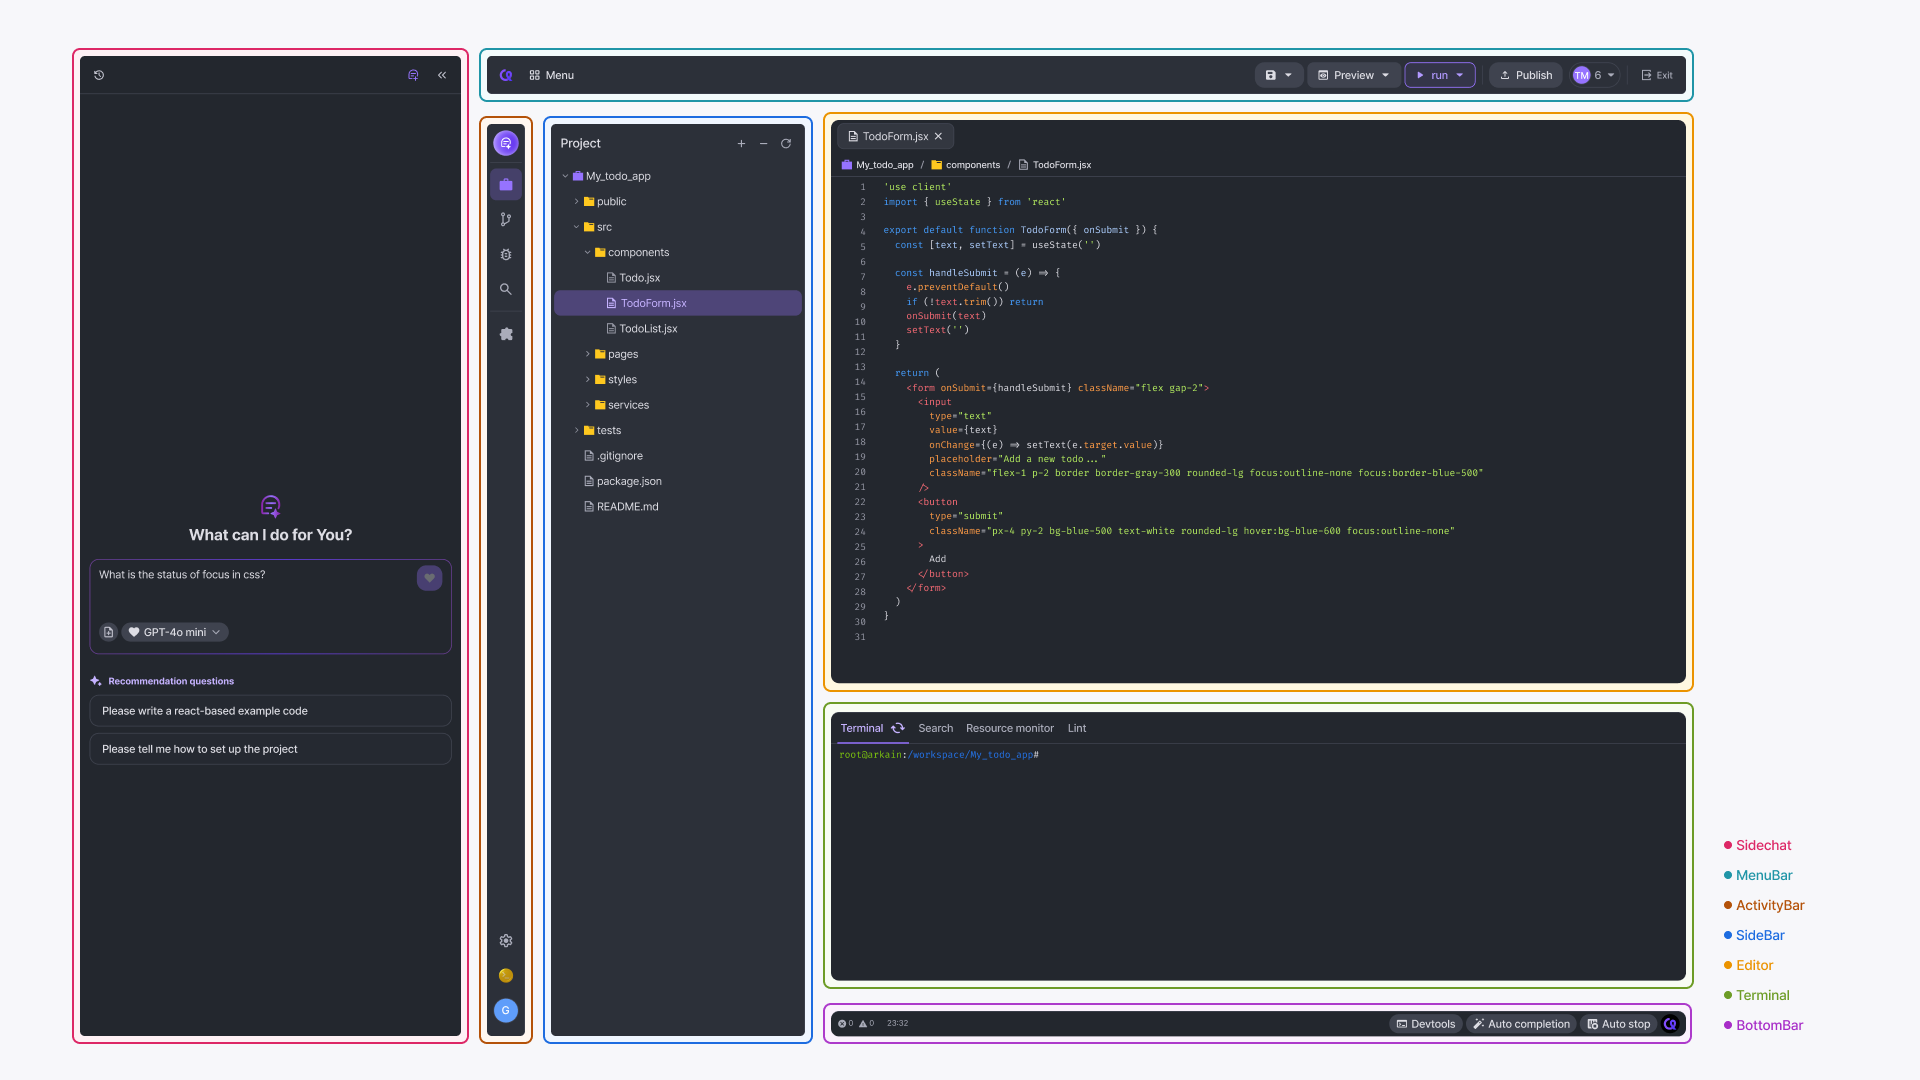
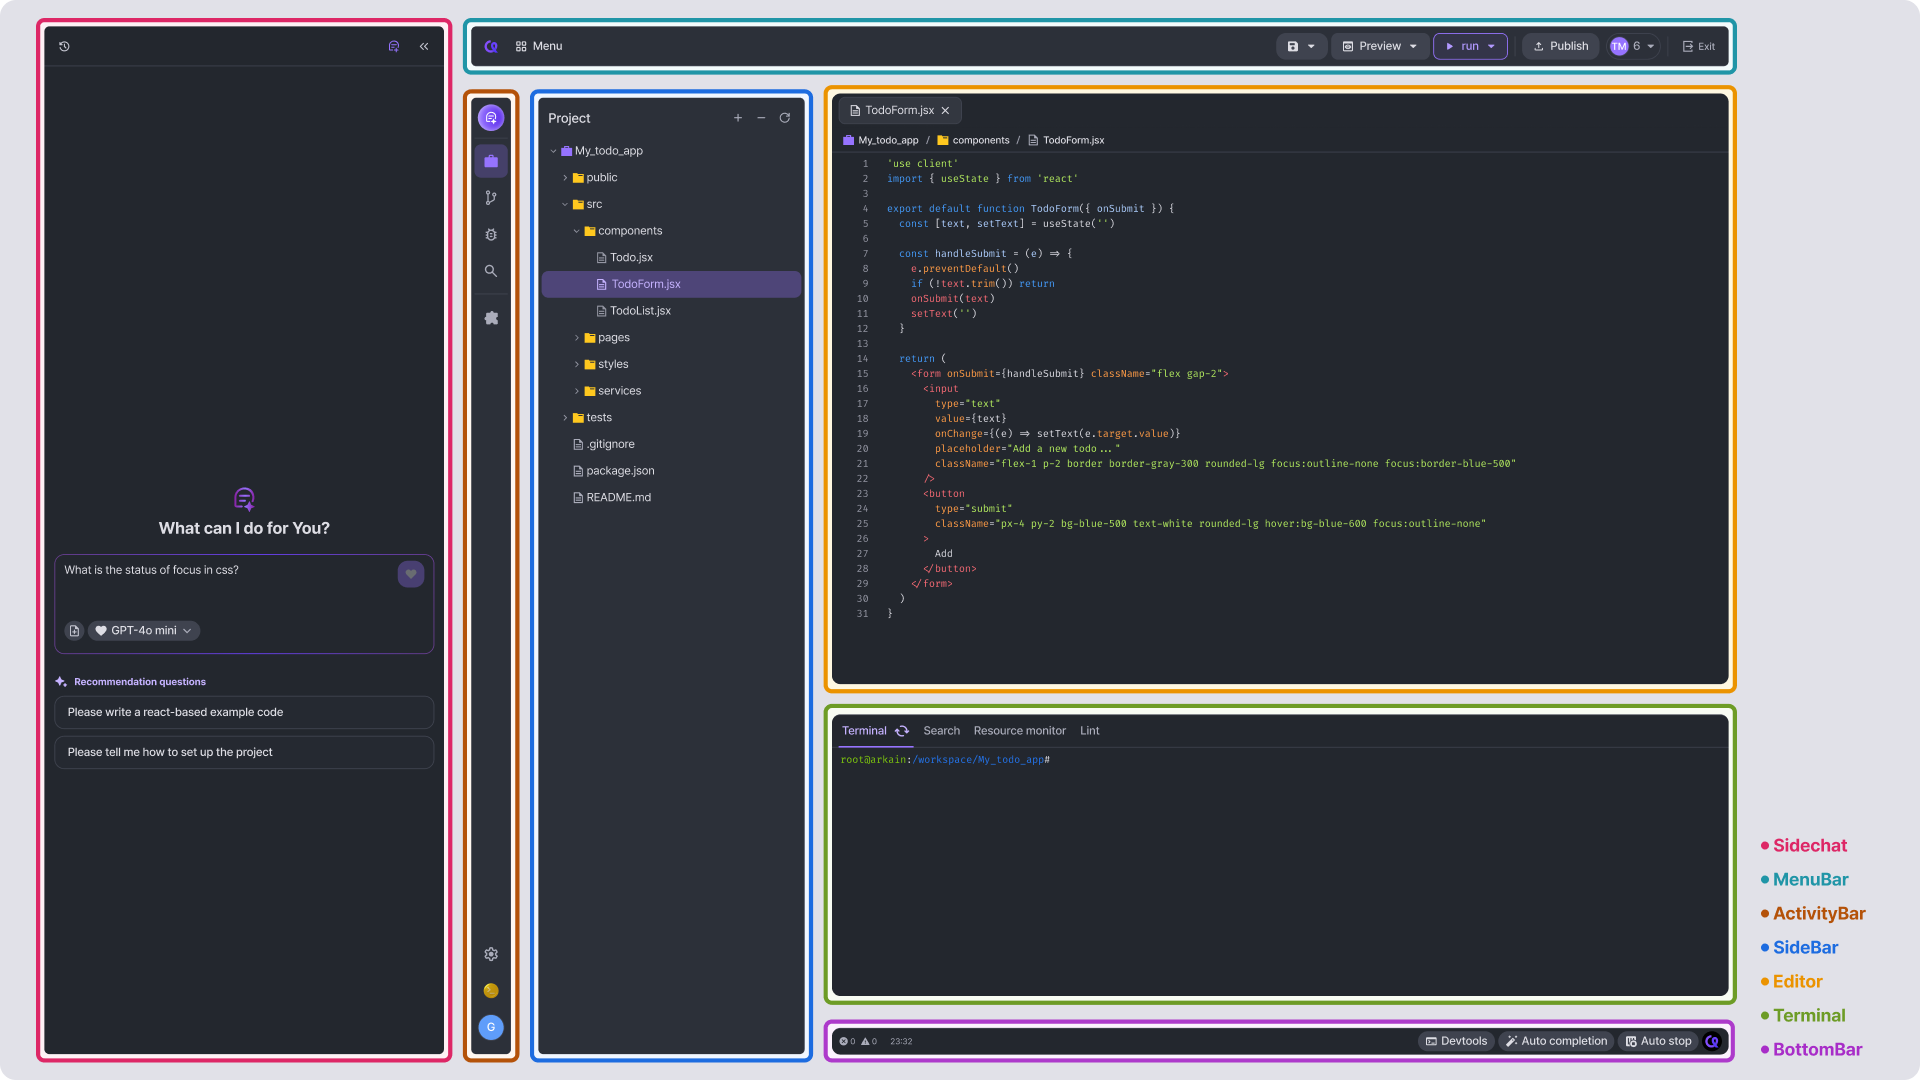
GITBOOK-201: No subject

Changed region(s): [[0.0, 0.0, 0.9688, 1.0]]

diff --git a/user-guide/workspace/README.md b/user-guide/workspace/README.md
@@ -6,28 +6,30 @@ icon: square-check
 
 Arkain's **Workspace** is an IDE environment designed to help you efficiently develop software. It provides features such as editing, building, testing, and deploying software. The key area terms of the Workspace are as follows.
 
-<figure><img src="../../.gitbook/assets/Workspace_01 (2).png" alt=""><figcaption><p>Studio layout</p></figcaption></figure>
+<figure><img src="../../.gitbook/assets/Workspace_01 (1).png" alt=""><figcaption></figcaption></figure>
 
 ***
 
 ## 1. Menu bar <a href="#menu-bar" id="menu-bar"></a>
 
-<figure><img src="../../.gitbook/assets/Workspace_02 (1).png" alt=""><figcaption><p>Menu bar</p></figcaption></figure>
+<figure><img src="../../.gitbook/assets/Workspace_02 (1) (1).png" alt=""><figcaption></figcaption></figure>
+
+<figure><img src="../../.gitbook/assets/Workspace_02 (1).png" alt=""><figcaption></figcaption></figure>
 
 The Menu bar is where you perform general operations on your Arkain Workspace. It includes, from left to right
 
 * The **\[Menu]** button(<img src="../../.gitbook/assets/[core] Button.png" alt="" data-size="line">) of the menu bar allowing users to Process list, SSH Configuration, Manage SBOM, and project properties, New Terminal Window.
 
-<figure><img src="../../.gitbook/assets/Workspace_03 (2).png" alt=""><figcaption></figcaption></figure>
+<figure><img src="../../.gitbook/assets/Workspace_03 (1).png" alt=""><figcaption></figcaption></figure>
 
 * The **\[Save]** button(<img src="../../.gitbook/assets/save (1).png" alt="" data-size="line">) allows you to save the open file, save as a new name, or save all files.
 * The **\[Preview]** button(![](../../.gitbook/assets/preview.png)) allows users to preview their project within the workspace or in a new tab or workspace. It also provides options for configuring the execution URL and port settings.
 
-<div align="center"><figure><img src="../../.gitbook/assets/Workspace_04 (1) (1).png" alt=""><figcaption></figcaption></figure></div>
+<figure><img src="../../.gitbook/assets/Workspace_04 (1).png" alt=""><figcaption></figcaption></figure>
 
 * The **\[Run]** button (<img src="../../.gitbook/assets/run.png" alt="" data-size="line">) allows users to manage and execute custom run commands they have written.
 
-<figure><img src="../../.gitbook/assets/Workspace_05 (2).png" alt=""><figcaption></figcaption></figure>
+<figure><img src="../../.gitbook/assets/Workspace_05 (1).png" alt=""><figcaption></figcaption></figure>
 
 * The **\[Publish]** (<img src="../../.gitbook/assets/publish.png" alt="" data-size="line">) button deploys the currently active container as a template. Deployed templates are made public on the [Templates page](https://arkain.io/template).
 * Clicking the **\[Exit Container]** button (<img src="../../.gitbook/assets/exit.png" alt="" data-size="line">) will exit the workspace. The container execution will stop upon exit.
@@ -121,15 +123,15 @@ You can share your container with others to collaborate or showcase your project
 
 Here, you can find Arkain's features, view [shortcuts](keyboard-shortcut.md), and access help.
 
-<div align="center"><figure><img src="../../.gitbook/assets/Workspace_07 (1).png" alt=""><figcaption></figcaption></figure></div>
+<figure><img src="../../.gitbook/assets/Workspace_07 (1).png" alt=""><figcaption></figcaption></figure>
 
-#### ![](../../.gitbook/assets/arkain_activitybar_icon_preference.png) \[Preference]&#x20;
+#### &#x20;<img src="../../.gitbook/assets/preference.png" alt="" data-size="line">Preference : You can open the **project settings modal**.
 
 You can open the project settings modal. You can change the editor, terminal, and theme styles, as well as configure key Arkain features such as AI auto-completion.
 
-<figure><img src="../../.gitbook/assets/image (23).png" alt=""><figcaption></figcaption></figure>
+<figure><img src="../../.gitbook/assets/Workspace_09.png" alt=""><figcaption></figcaption></figure>
 
-#### ![](../../.gitbook/assets/credit.png) [\[Credit\]](../../credit-and-membership/credit.md)
+#### ![](../../.gitbook/assets/avatar.png) Profile and Container Info : You can navigate to the page where you can manage your **member profile** and **container information**.
 
 You can check the available credits along with Container usage time, Estimated uptime, and Used credit.
 
@@ -137,7 +139,7 @@ You can check the available credits along with Container usage time, Estimated u
 
 You can navigate to the page where you can manage your member profile and container information.
 
-<div align="center"><figure><img src="../../.gitbook/assets/image (1) (1) (1) (1) (1) (1).png" alt="" width="269"><figcaption></figcaption></figure></div>
+<div align="center"><figure><img src="../../.gitbook/assets/Workspace_10.png" alt=""><figcaption></figcaption></figure></div>
 
 * **Profile** : You can navigate to the Profile Settings page to edit your profile information.
 * **Container Info** : You can navigate to the Container Settings page to configure detailed container settings.

diff --git a/user-guide/dashboard/container/automatic-stop.md b/user-guide/dashboard/container/automatic-stop.md
@@ -34,13 +34,13 @@ You can set **Automatic Stop** from the Dashboard and Workspace.
 
 * Click Container setting button![](https://help.goorm.io/~gitbook/image?url=https%3A%2F%2F2181851870-files.gitbook.io%2F%7E%2Ffiles%2Fv0%2Fb%2Fgitbook-x-prod.appspot.com%2Fo%2Fspaces%252F-Lq-Q9LciN1X9EABxGkt%252Fuploads%252FAnr0KhV0ED5q8oUqo0zY%252Fimage.png%3Falt%3Dmedia%26token%3D8268a1f0-d890-4277-ac95-5dd60224a352\&width=300\&dpr=4\&quality=100\&sign=1527ba46\&sv=2) → Active **\[Automatic container stop]** in Container Status
 
-<figure><img src="https://2181851870-files.gitbook.io/~/files/v0/b/gitbook-x-prod.appspot.com/o/spaces%2F-Lq-Q9LciN1X9EABxGkt%2Fuploads%2FgJU2qFgwYvRl3uE0SmDl%2FGroup%205.svg?alt=media&#x26;token=89fc947b-b1f2-423e-88df-5433350e1697" alt=""><figcaption></figcaption></figure>
+<figure><img src="../../../.gitbook/assets/automaticstop_01 (1).png" alt=""><figcaption></figcaption></figure>
 
 ## From Workspace <a href="#from-ide" id="from-ide"></a>
 
-* Click the **\[Auto stop]** (![](<../../../.gitbook/assets/스크린샷 2025-02-11 오후 2.06.58.png>)) button in the bottom bar, and then click **\[Using feature]** in the popup window to enable the container's automatic stop feature.
-* To turn off the feature, click the **\[Auto stop]** (![](<../../../.gitbook/assets/스크린샷 2025-02-11 오후 2.06.58.png>)) button again and then click **\[Turn off the feature]** in the popup.
+* Click the **\[Auto stop]** (<img src="../../../.gitbook/assets/autostop_button.png" alt="" data-size="line">) button in the bottom bar, and then click **\[Using feature]** in the popup window to enable the container's automatic stop feature.
+* To turn off the feature, click the **\[Auto stop]** (<img src="../../../.gitbook/assets/autostop_button.png" alt="" data-size="line">) button again and then click **\[Turn off the feature]** in the popup.
 
-<figure><img src="../../../.gitbook/assets/스크린샷 2025-02-11 오후 2.05.10.png" alt=""><figcaption></figcaption></figure>
+<figure><img src="../../../.gitbook/assets/automaticstop_02.png" alt=""><figcaption></figcaption></figure>
 
-<figure><img src="https://help.goorm.io/~gitbook/image?url=https%3A%2F%2F2181851870-files.gitbook.io%2F%7E%2Ffiles%2Fv0%2Fb%2Fgitbook-x-prod.appspot.com%2Fo%2Fspaces%252F-Lq-Q9LciN1X9EABxGkt%252Fuploads%252FryB2ZI4dG3IkKENdZh3p%252Fimage.png%3Falt%3Dmedia%26token%3D74ad6b96-46fe-44b6-8273-5b29742fff40&#x26;width=768&#x26;dpr=4&#x26;quality=100&#x26;sign=eccd50f5&#x26;sv=2" alt="" width="375"><figcaption></figcaption></figure>
+<figure><img src="../../../.gitbook/assets/automaticstop_03.png" alt=""><figcaption></figcaption></figure>

diff --git a/user-guide/dashboard/container-managing/import-github-repos.md b/user-guide/dashboard/container-managing/import-github-repos.md
@@ -4,23 +4,21 @@ icon: github
 
 # Import Github Repos
 
-<figure><img src="../../../../.gitbook/assets/02011-ezgif.com-video-to-gif-converter (1).gif" alt=""><figcaption></figcaption></figure>
-
 You can import a project from a **GitHub repository** and continue working on it in Arkain.
 
 {% stepper %}
 {% step %}
 ### **Step 1. Go to the** [dashboard](https://ide.goorm.io/my/dashboard) and click \[+ New container]. <a href="#step-1-go-to-the-dashboard-and-click-new-container" id="step-1-go-to-the-dashboard-and-click-new-container"></a>
 
-<figure><img src="../../../../.gitbook/assets/image (11).png" alt=""><figcaption></figcaption></figure>
+<figure><img src="../../../.gitbook/assets/GitHub_01.png" alt=""><figcaption></figcaption></figure>
 
-<figure><img src="../../../../.gitbook/assets/image (12).png" alt=""><figcaption></figcaption></figure>
+<figure><img src="../../../.gitbook/assets/GitHub_02.png" alt=""><figcaption></figcaption></figure>
 {% endstep %}
 
 {% step %}
 ### **Step 2. Authenticate your GitHub account** <a href="#step-2-authenticate-your-github-account" id="step-2-authenticate-your-github-account"></a>
 
-<figure><img src="../../../../.gitbook/assets/image (13).png" alt=""><figcaption></figcaption></figure>
+<figure><img src="../../../.gitbook/assets/image (13).png" alt=""><figcaption></figcaption></figure>
 
 * In the 'Create Container' popup, click the **\[Import from GitHub]** button in the top right corner.
 * Click the **\[Github authorization]** button to link your account through GitHub account.
@@ -30,11 +28,12 @@ You can import a project from a **GitHub repository** and continue working on it
 {% step %}
 ### **Step 3. Create a container from GitHub repository** <a href="#step-3-create-a-container-from-github-repository" id="step-3-create-a-container-from-github-repository"></a>
 
-<figure><img src="../../../../.gitbook/assets/image (14).png" alt=""><figcaption></figcaption></figure>
+
+
+<figure><img src="../../../.gitbook/assets/GitHub_03.png" alt=""><figcaption></figcaption></figure>
 
 * Select the repository you want to import. If the repository is set as private, it will be indicated with a badge in the list.
 * The software stack and name will be automatically entered based on the selected repository, and you can freely modify them if needed.
-* Configure container specs and additional storage.
 * If needed, activate Additional modules/packages to install them.
 * Lastly, click the **\[Import project]** button to create the container based on the provided information.
 {% endstep %}

diff --git a/user-guide/dashboard/container/available-container-stacks.md b/user-guide/dashboard/container/available-container-stacks.md
@@ -1,0 +1,25 @@
+---
+icon: cubes
+---
+
+# Container Stacks
+
+## **Available Container Stacks in Arkain**
+
+Arkain offers a variety of container stacks to meet the needs of different development projects. Below are the available stacks you can choose from when creating a container:
+
+<table data-card-size="large" data-view="cards"><thead><tr><th></th><th></th><th data-hidden></th><th data-hidden data-type="files"></th></tr></thead><tbody><tr><td><img src="../../../.gitbook/assets/Stack-5 (1).png" alt="">  </td><td><h2>Blank</h2><p>A clean slate for custom projects.</p></td><td></td><td><a href="../../../.gitbook/assets/blank.png">blank.png</a></td></tr><tr><td>  <img src="../../../.gitbook/assets/Stack.png" alt=""></td><td><h2>Python</h2><p>Pre-configured environment for Python development.</p></td><td></td><td><a href="../../../.gitbook/assets/python.png">python.png</a></td></tr><tr><td>  <img src="../../../.gitbook/assets/Stack-1.png" alt=""></td><td><h2>Node.js</h2><p>Set up for building and running Node.js applications.</p></td><td></td><td><a href="../../../.gitbook/assets/node.png">node.png</a></td></tr><tr><td>  <img src="../../../.gitbook/assets/Stack-2.png" alt=""></td><td><h2>Java</h2><p>Pre-configured for Java development.</p></td><td></td><td></td></tr><tr><td> <img src="../../../.gitbook/assets/Stack-3.png" alt=""></td><td><h2>Go</h2><p>Pre-configured environment for Go development.</p></td><td></td><td></td></tr><tr><td> <img src="../../../.gitbook/assets/Stack-4.png" alt=""></td><td><h2>React</h2><p>Optimized for front-end development with React.</p></td><td></td><td></td></tr></tbody></table>
+
+{% hint style="info" %}
+**All Stack OS Versions Available**
+
+* Ubuntu 22.04 LTS
+* Ubuntu 20.04 LTS
+
+:warning: The NVIDIA Tesla T4 container stack is only available on Ubuntu 20.04 LTS.
+{% endhint %}
+
+***
+
+These stacks come pre-configured with the necessary software for each respective language or framework, making it easier to start development right away!
+

diff --git a/SUMMARY.md b/SUMMARY.md
@@ -67,14 +67,14 @@
     * [Container Specifications](user-guide/dashboard/container/container-specifications.md)
     * [Container Managing](user-guide/dashboard/container/container-managing/README.md)
       * [Creating Container](user-guide/dashboard/container/container-managing/creating-container.md)
-      * [Import Github Repos](user-guide/dashboard/container/container-managing/import-github-repos.md)
+      * [Import Github Repos](user-guide/dashboard/container-managing/import-github-repos.md)
       * [Setting Container](user-guide/dashboard/container/container-managing/setting-container/README.md)
-        * [Init Script](user-guide/dashboard/container/container-managing/setting-container/init-script.md)
-        * [Environment Variable](user-guide/dashboard/container/container-managing/setting-container/environment-variable.md)
+        * [Init Script](user-guide/dashboard/container-managing/configuring-container/init-script.md)
+        * [Environment Variable](user-guide/dashboard/container-managing/configuring-container/environment-variables.md)
         * [Container Upgrade](user-guide/dashboard/container/container-managing/setting-container/container-upgrade.md)
         * [Sharing Container](user-guide/dashboard/container/container-managing/setting-container/sharing-container.md)
       * [Container Run / Stop / Delete](user-guide/dashboard/container/container-managing/container-run-stop-delete.md)
-    * [Container Stacks](user-guide/dashboard/container/container-stacks.md)
+    * [Container Stacks](user-guide/dashboard/container/available-container-stacks.md)
     * [Automatic Stop](user-guide/dashboard/container/automatic-stop.md)
     * [Introduction to GPU](user-guide/dashboard/container/introduction-to-gpu.md)
     * [Inactive Container](user-guide/dashboard/container-managing/inactive-container.md)

diff --git a/user-guide/dashboard/container/container-managing/setting-container/README.md b/user-guide/dashboard/container/container-managing/setting-container/README.md
@@ -62,8 +62,8 @@ You can invite other users to your container with 4 permissions (Readonly, Edita
 
 * If you have a script that needs to be executed repeatedly when running a container, try the Init script! The Init script runs from the root directory `(/)` of the container and is executed when the container starts.
 
-{% content-ref url="init-script.md" %}
-[init-script.md](init-script.md)
+{% content-ref url="../../../container-managing/configuring-container/init-script.md" %}
+[init-script.md](../../../container-managing/configuring-container/init-script.md)
 {% endcontent-ref %}
 
 ### **6. URL/Port**
@@ -75,8 +75,8 @@ You can invite other users to your container with 4 permissions (Readonly, Edita
 * Environment variables are defined as key-value pairs and can be used to store database credentials, API keys, and other sensitive information for applications.&#x20;
 * By using environment variables, programs can be executed according to the environment without changing the source code, and sensitive security keys do not need to be stored directly in configuration files, enhancing security.
 
-{% content-ref url="environment-variable.md" %}
-[environment-variable.md](environment-variable.md)
+{% content-ref url="../../../container-managing/configuring-container/environment-variables.md" %}
+[environment-variables.md](../../../container-managing/configuring-container/environment-variables.md)
 {% endcontent-ref %}
 
 ### **8. Delete this container**

diff --git a/user-guide/workspace/source-code-management-git/diff.md b/user-guide/workspace/source-code-management-git/diff.md
@@ -14,7 +14,7 @@ In the **\[Git] > \[Changes]** tab, clicking a file opens the Diff Tool, which l
 
 {% hint style="warning" %}
 **Note**\
-If you open the **\[Git]** tab and there is only a **\[Register repository]** button, you need to connect the repository first. See how to connect on [Import Github Repos](../../dashboard/container/container-managing/import-github-repos.md) page.
+If you open the **\[Git]** tab and there is only a **\[Register repository]** button, you need to connect the repository first. See how to connect on [Import Github Repos](../../dashboard/container-managing/import-github-repos.md) page.
 {% endhint %}
 
 There are 2 areas in the Diff Tool;

diff --git a/user-guide/dashboard/container/introduction-to-gpu.md b/user-guide/dashboard/container/introduction-to-gpu.md
@@ -14,8 +14,10 @@ icon: microchip
 _Please remind that you can use max. 12 hours a day depending on the GPU resources in the cloud._&#x20;
 
 You can check the usage time of the NVIDIA Tesla T4 container on the dashboard.\
-![](<../../../.gitbook/assets/스크린샷 2025-02-11 오후 4.05.51.png>)
+
 {% endhint %}
+
+<figure><img src="../../../.gitbook/assets/GPU_container.png" alt=""><figcaption></figcaption></figure>
 
 ### **GPU Storage Billing Policy**
 

diff --git a/user-guide/dashboard/container-managing/configuring-container/init-script.md b/user-guide/dashboard/container-managing/configuring-container/init-script.md
@@ -8,7 +8,7 @@ If you have a script that needs to be executed repeatedly when running a contain
 
 It is commonly used to write scripts that execute your application.
 
-<figure><img src="../../../../../.gitbook/assets/image (2) (1).png" alt=""><figcaption></figcaption></figure>
+<figure><img src="../../../../.gitbook/assets/InitScript_01.png" alt=""><figcaption></figcaption></figure>
 
 ### How to use init script?
 

diff --git a/user-guide/dashboard/container-managing/configuring-container/environment-variables.md b/user-guide/dashboard/container-managing/configuring-container/environment-variables.md
@@ -18,7 +18,7 @@ Local environment variables are variables that can be used only in specific comm
 
 #### ➡ in Container Settings Page
 
-<figure><img src="../../../../../.gitbook/assets/image (26).png" alt=""><figcaption></figcaption></figure>
+<figure><img src="../../../../.gitbook/assets/Environment Variables_01.png" alt=""><figcaption></figcaption></figure>
 
 #### ➡ in Workspace
 

diff --git a/getting-started-1/what-is-arkain.md b/getting-started-1/what-is-arkain.md
@@ -4,7 +4,9 @@ icon: circle-chevron-right
 
 # What is Arkain?
 
-<figure><img src="../.gitbook/assets/02014-ezgif.com-video-to-gif-converter.gif" alt=""><figcaption></figcaption></figure>
+
+
+<figure><img src="../.gitbook/assets/bg (1).png" alt=""><figcaption></figcaption></figure>
 
 ## Introducing Arkain: The Future of **Cloud Development Environments**&#x20;
 
